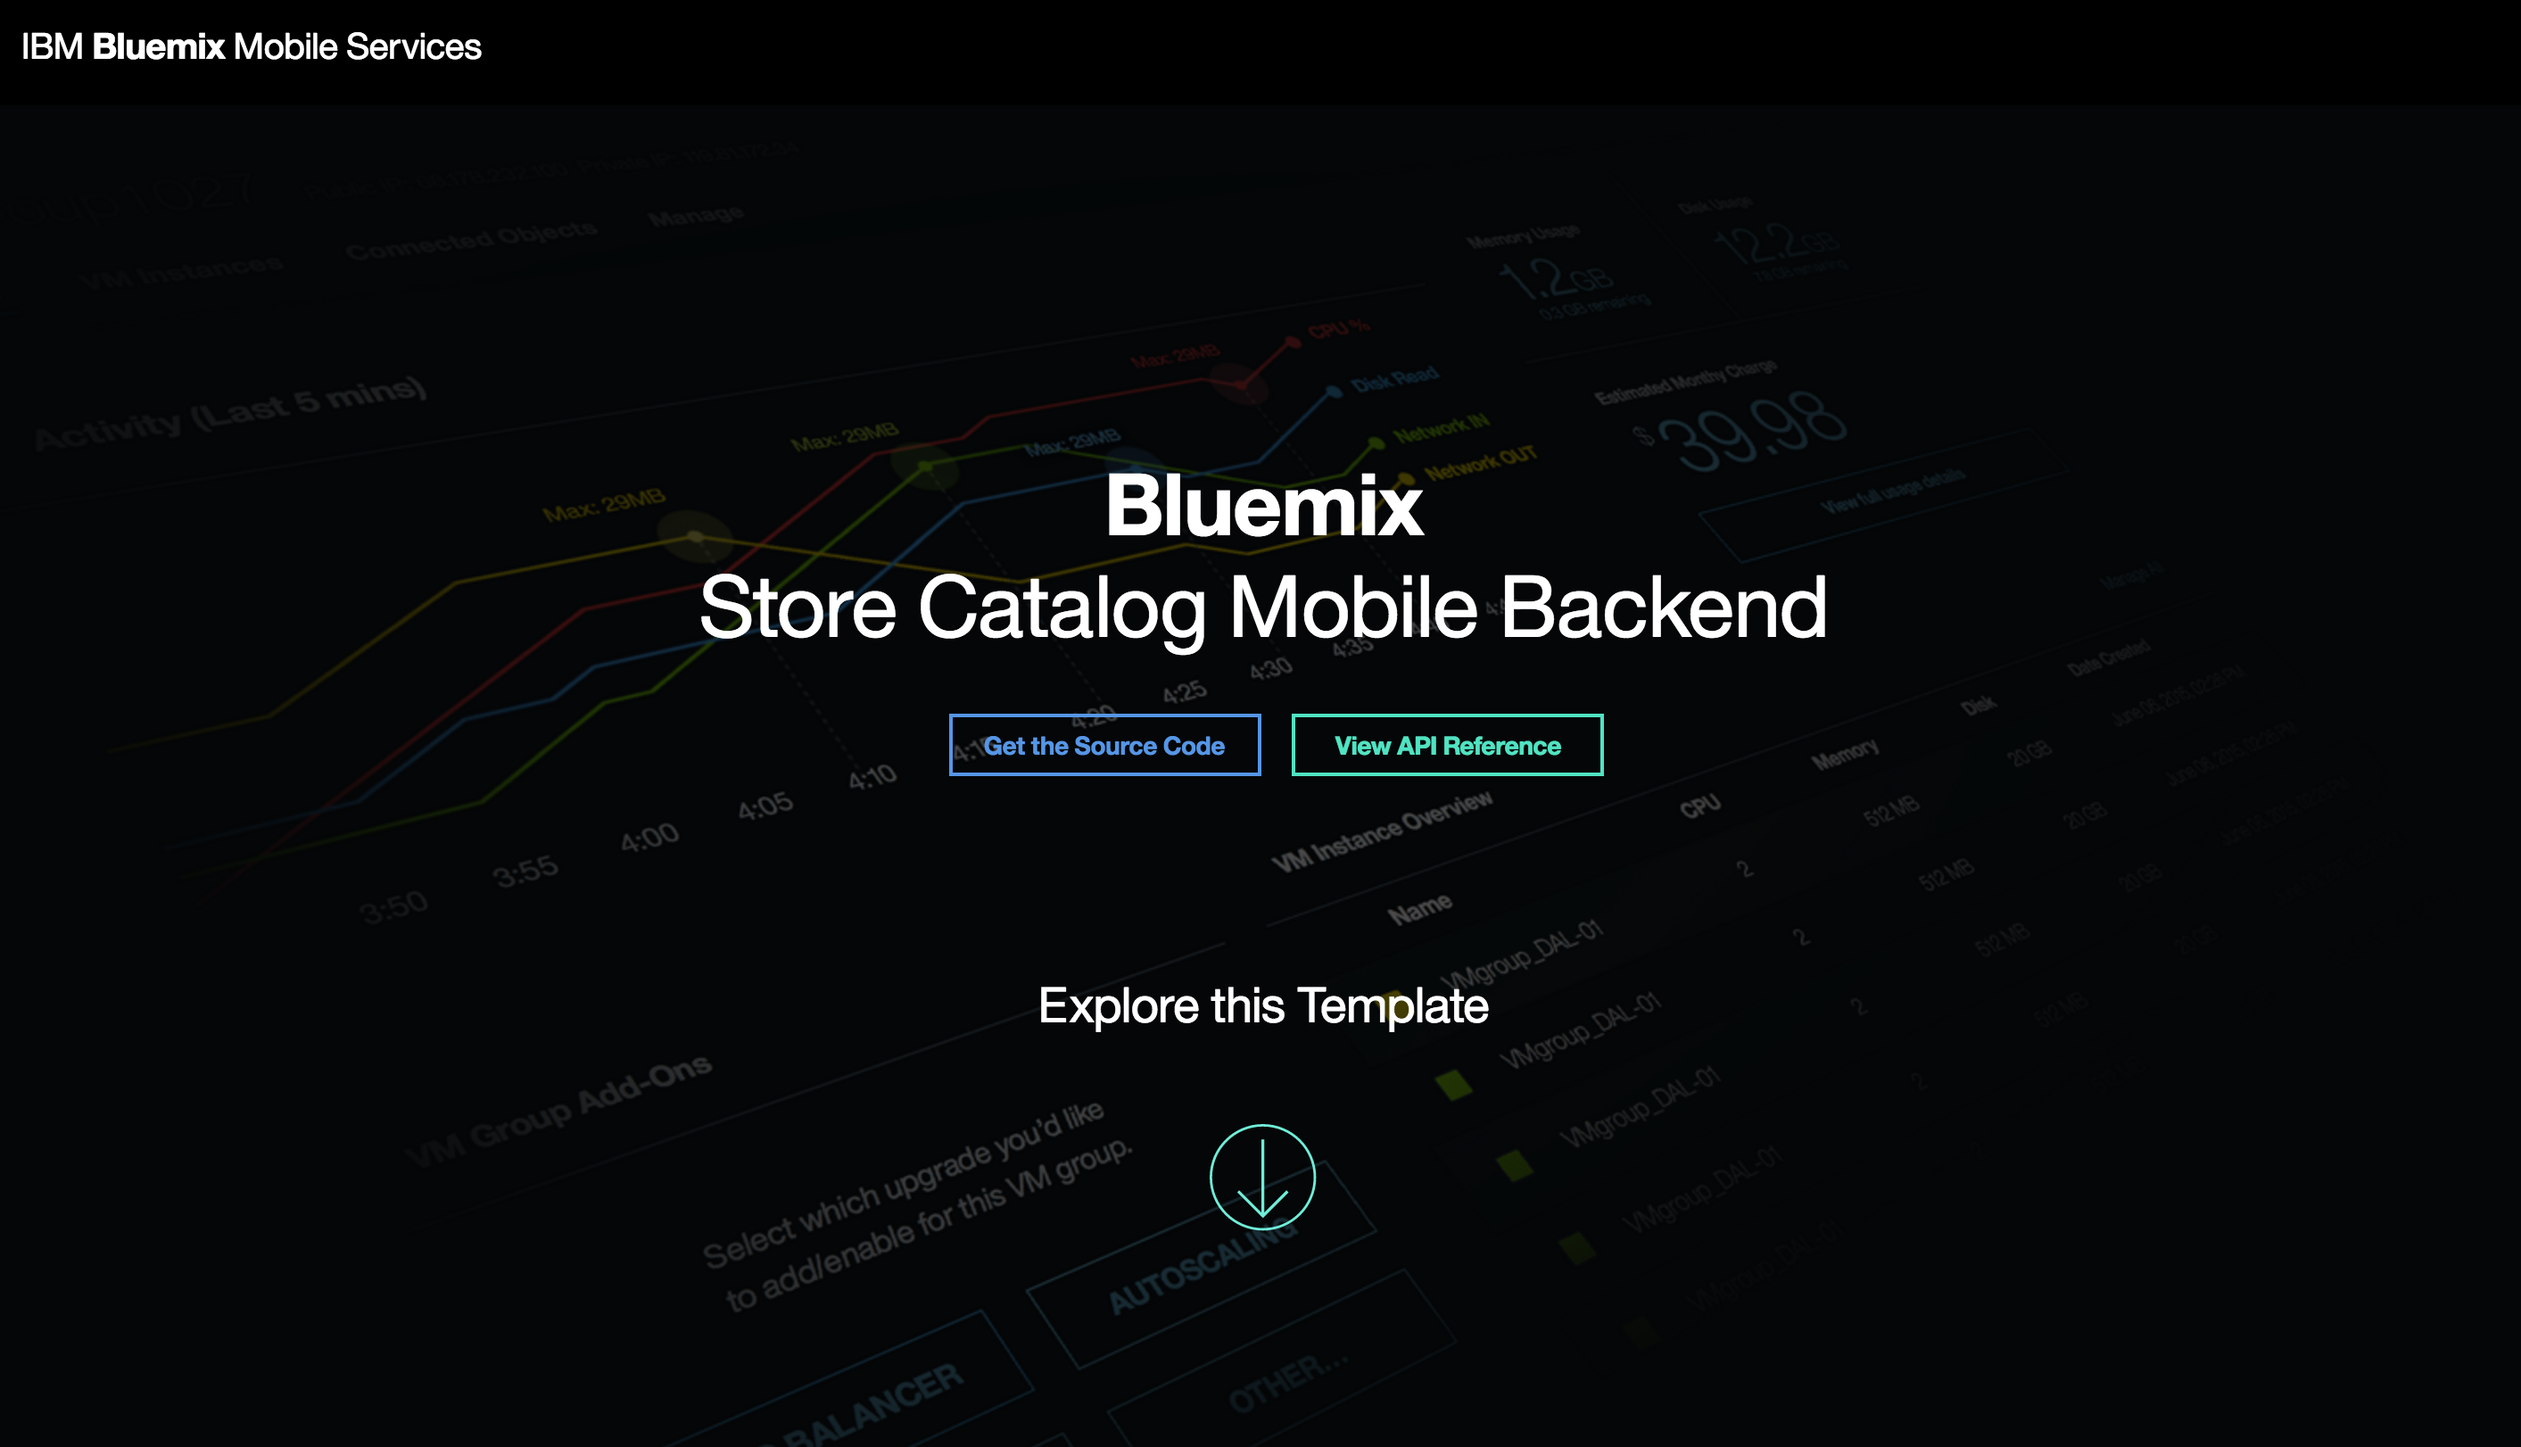
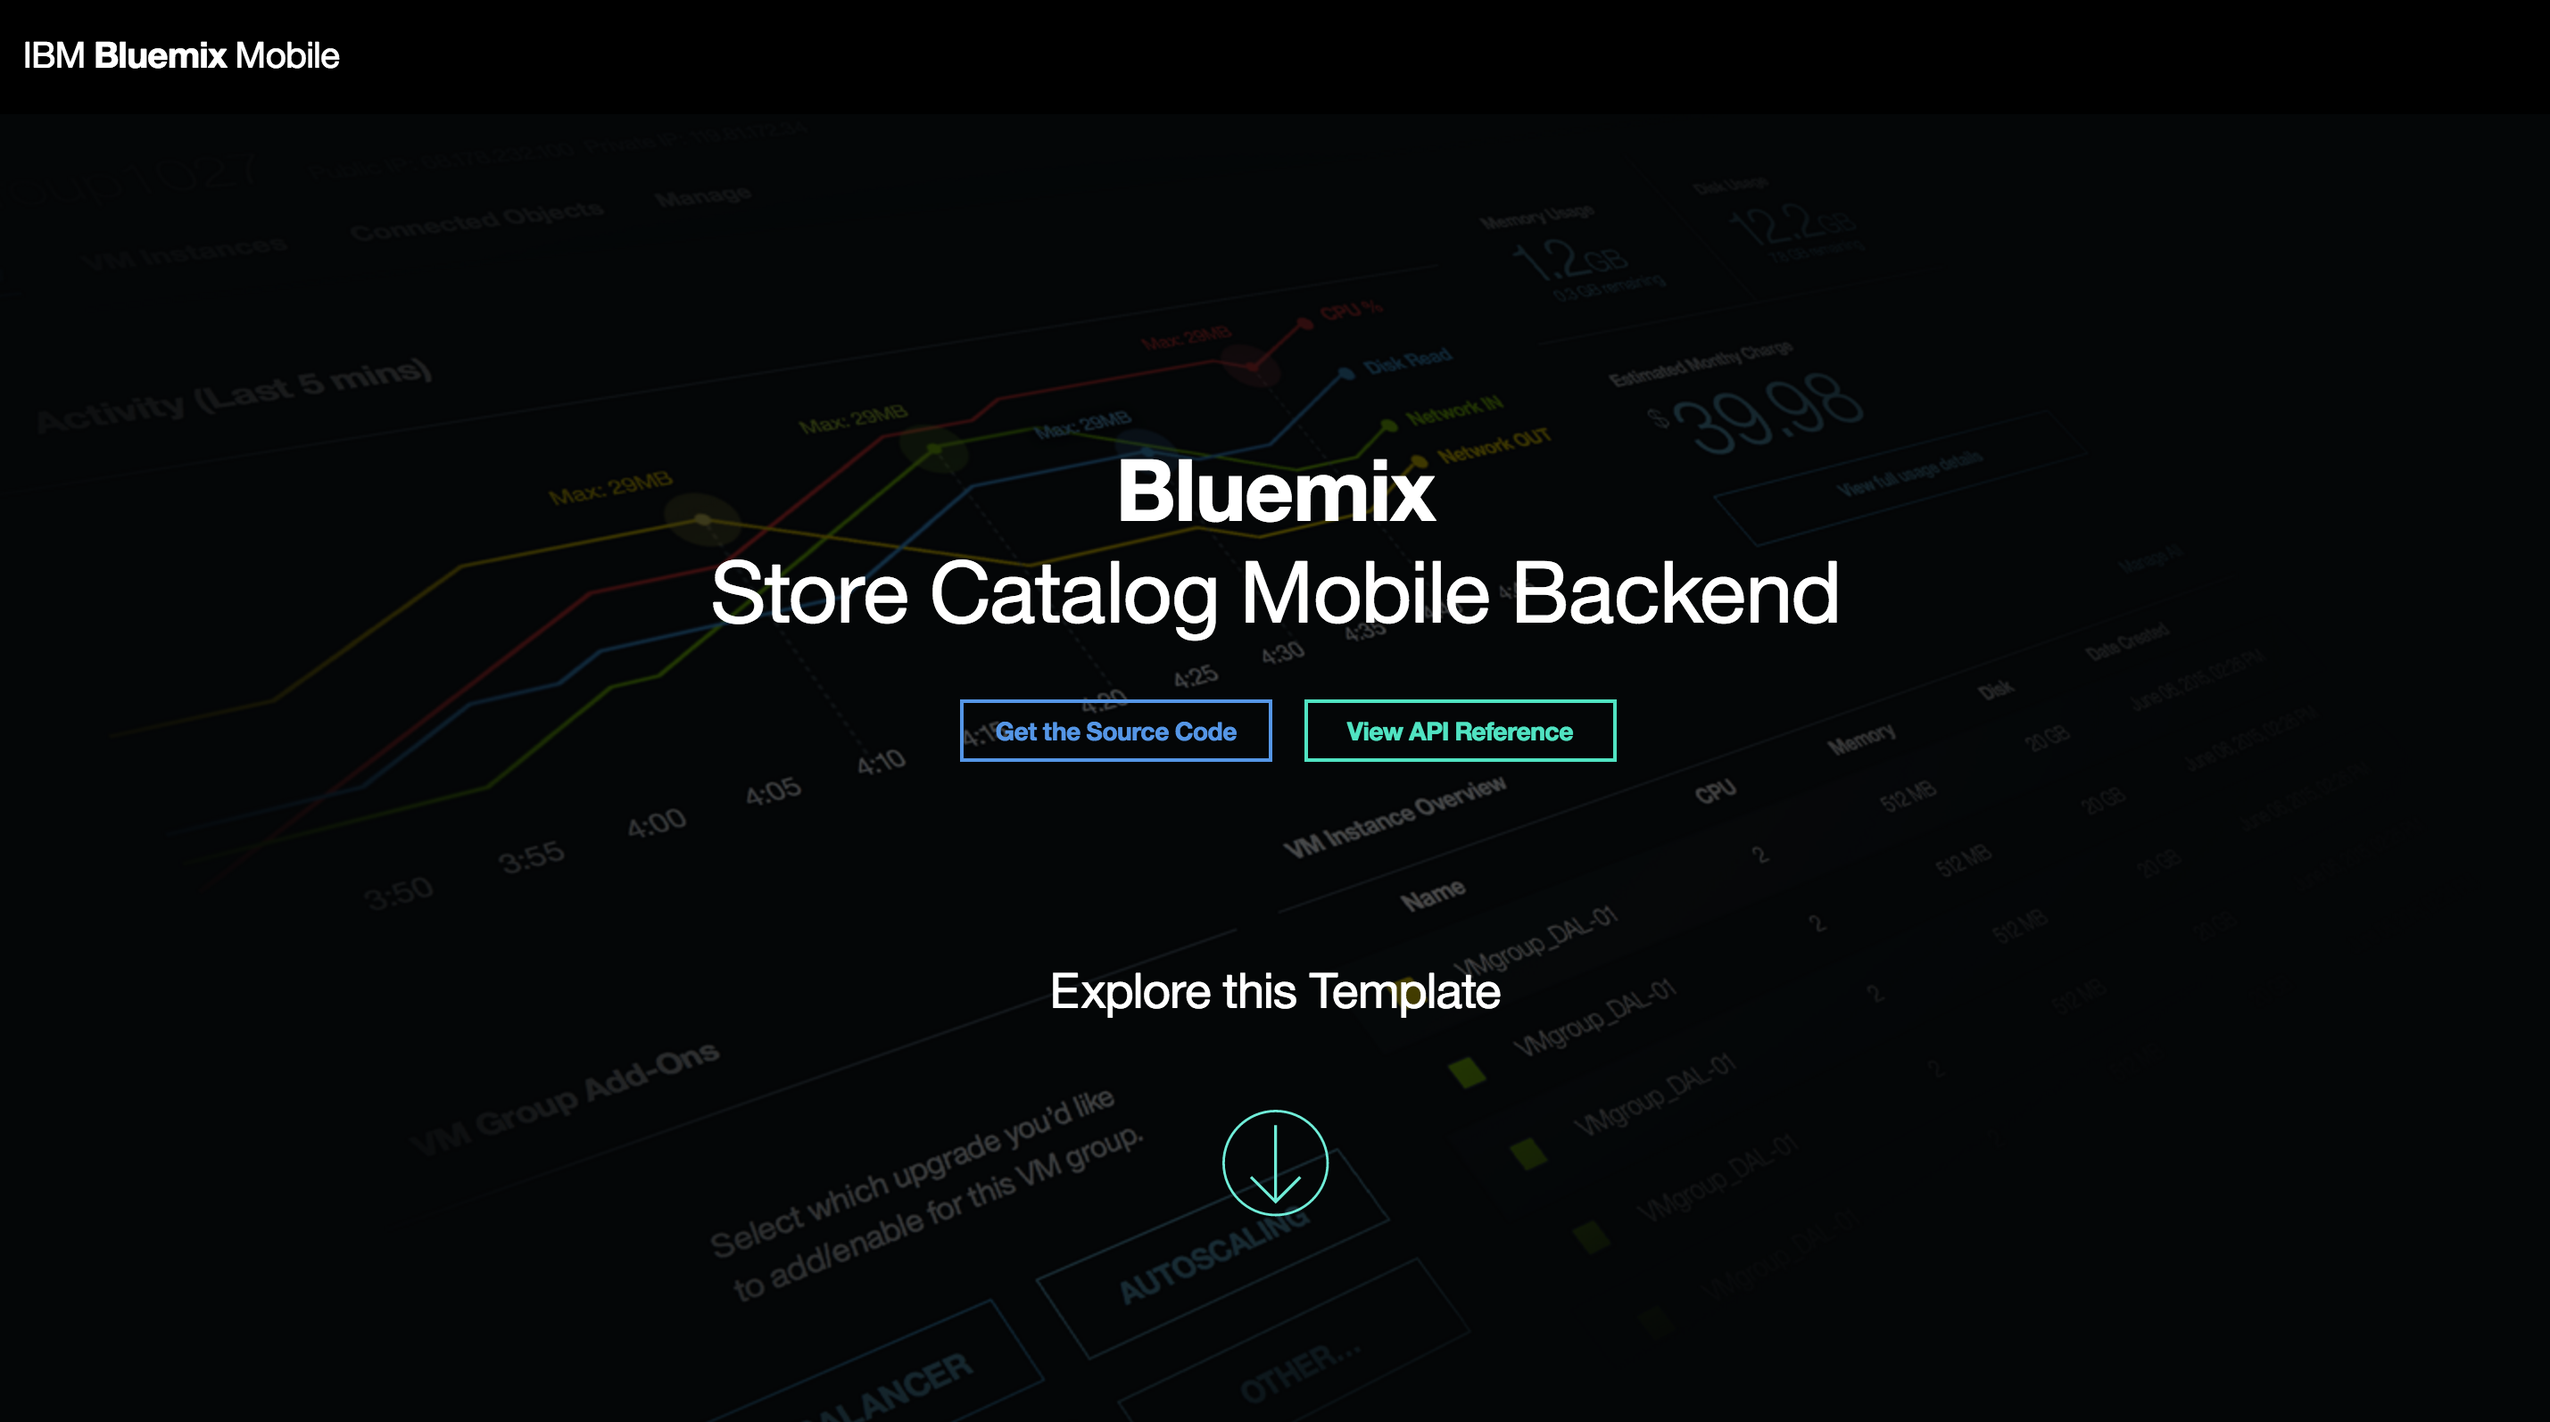
Renaming, updating image, fixing connector bug

diff --git a/template/client/index.html b/template/client/index.html
@@ -12,7 +12,7 @@
 	<body>
 		<header class="design-guide__header">
 			<div class="header__logo">
-				<a href="/" ><h3>IBM <span class="header__logo--bold">Bluemix</span> Mobile Services</h3></a>
+				<a href="/" ><h3>IBM <span class="header__logo--bold">Bluemix</span> Mobile</h3></a>
 			</div> <!-- .header__logo -->
 		</header>
 
@@ -40,11 +40,11 @@
 							<h1 class="base-elements-group__heading">About this Template</h1>
 							<a href="https://bluemix.net/catalog/services/mobile-app-builder/" target="_blank"><img src=img/screenshots/mobile.png /></a>
 							<p class="base-elements-group__description">
-								The Store Catalog template is comprised of a Bluemix backend (you're here!) and iOS application that serve to demonstrate a common
+								The Store Catalog template is comprised of a Bluemix backend and iOS application that serve to demonstrate a common
 								and reusable design pattern using new technology from IBM's Bluemix portfolio.
 							</p>
 							<p class="base-elements-group__description">
-								This backend has been created to support the new IBM Mobile App Builder Store Catalog template.
+								This backend has been created to support the new IBM Mobile Dashboard Builder Store Catalog template.
 								It has the the ability to browse a list of products and supports the viewing of images for each item in the product list.
 							</p>
 							<p class="base-elements-group__description">

diff --git a/generator.js b/generator.js
@@ -49,7 +49,7 @@
 
 			saveFile(path + 'datasources.json', JSON.stringify({
 				'Cloudant': {
-					database: cloudantService.db,
+					database: cloudantService.data[0].name,
 					username: cloudantService.credentials.username,
 					password: cloudantService.credentials.password,
 					name: 'Cloudant',
@@ -73,7 +73,7 @@
 				console.log('  Upload your backend to Bluemix');
 
 				var loginCmd = app.text.green('    $ cf login -a ') + app.text.yellow(config.app.get('region.api'));
-				if(config.app.get('username', false)) {
+				if (config.app.get('username', false)) {
 					loginCmd += app.text.green(' -u ') + app.text.yellow(config.app.get('username', false));
 				} else {
 					loginCmd += app.text.green(' -u [USERNAME]');

diff --git a/readme.md b/readme.md
@@ -2,10 +2,10 @@
 [![](https://img.shields.io/badge/bluemix-powered-blue.svg)](https://bluemix.net)
 [![](https://img.shields.io/badge/mobile-app%20builder-orange.svg)](https://bluemix.net/catalog/services/mobile-app-builder/)
 
-### IBM Mobile App Builder Store Catalog Backend
-The Store Catalog Mobile Backend uses an  **API Connect** Node.js runtime with the **Cloudant NoSQL DB**, **Object Storage**, **Mobile Client Access**, **Push Notifications**, and **Mobile Analytics** services on Bluemix. The template exhibits common architectural design patterns that developers can use to model their backend on Bluemix for mobile applications. This backend has been created to support the [new](https://developer.ibm.com/bluemix/2016/05/03/mobile-app-builder-now-available/) IBM Mobile App Builder Store Catalog template. It has the the ability to browse a list of products and supports the viewing of images for each item in the product list.
+### IBM Mobile Dashboard Store Catalog Backend
+The Store Catalog Mobile Backend uses an  **API Connect** Node.js runtime with the **Cloudant NoSQL DB**, **Object Storage**, **Mobile Client Access**, **Push Notifications**, and **Mobile Analytics** services on Bluemix. The template exhibits common architectural design patterns that developers can use to model their backend on Bluemix for mobile applications. This backend has been created to support the new IBM Mobile Dashboard Store Catalog template. It has the the ability to browse a list of products and supports the viewing of images for each item in the product list.
 
-The backend uses the following IBM Bluemix services and runtime:
+The backend uses the following Bluemix services and runtime:
 
 **Runtime**
 * **API Connect** for a single point of REST integration using Loopback with Node.js

diff --git a/template/readme.md b/template/readme.md
@@ -1,5 +1,5 @@
 # Store Catalog Mobile Backend
-This folder contains instructions for how to run API Connect and deploy the template to Bluemix.
+This folder contains instructions for how to run **API Connect** and deploy the template to Bluemix.
 
 ### Before you begin
 Ensure that you have:
@@ -25,7 +25,7 @@ Ensure that you have:
     └── package.json        # Contains name, version, description, scripts, dependencies, etc. of the backend
 
 ### Running API Connect
-To run API Connect, type the following command while inside the project directory:
+To run **API Connect**, type the following command while inside the project directory:
 
 `apic edit`
 
